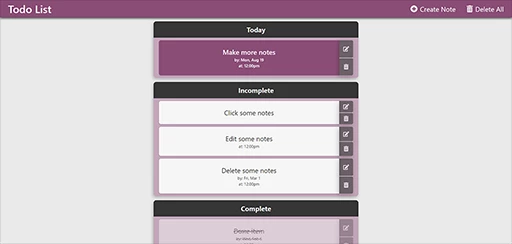
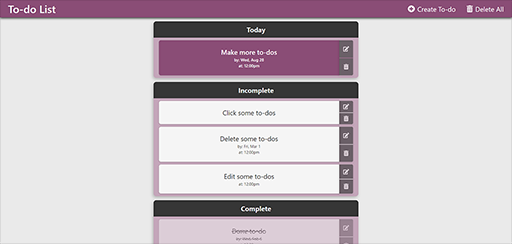
todo list thumb update

diff --git a/src/components/Projects.js b/src/components/Projects.js
@@ -35,7 +35,7 @@ export default function Projects() {
         number={4}
         type1={'react'}
         type2={'node'}
-        title={'Todo List'}
+        title={'To-do List'}
         appPreview={'https://kylbutlr-todos-react.herokuapp.com'}
         appGithub={'https://github.com/kylbutlr/todo-list-react'}
         apiGithub={'https://github.com/kylbutlr/todo-list-api'}
